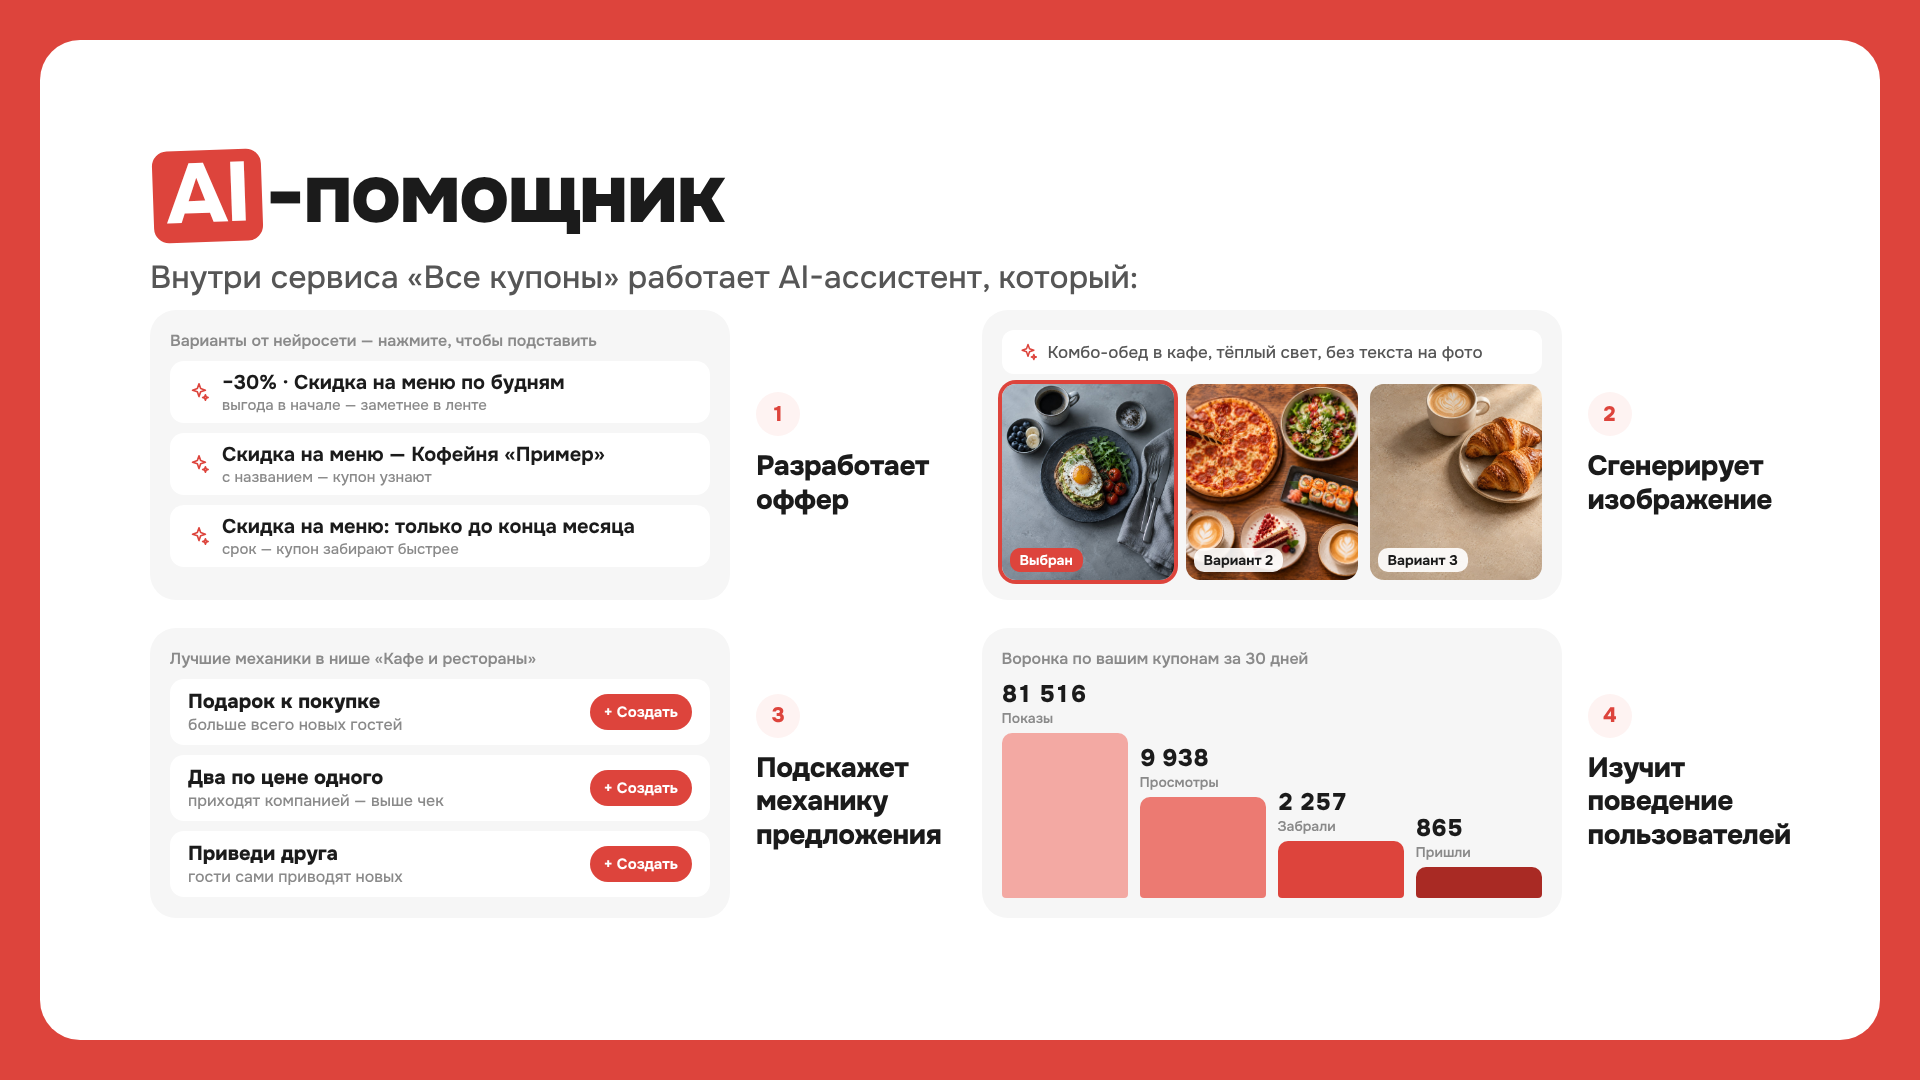
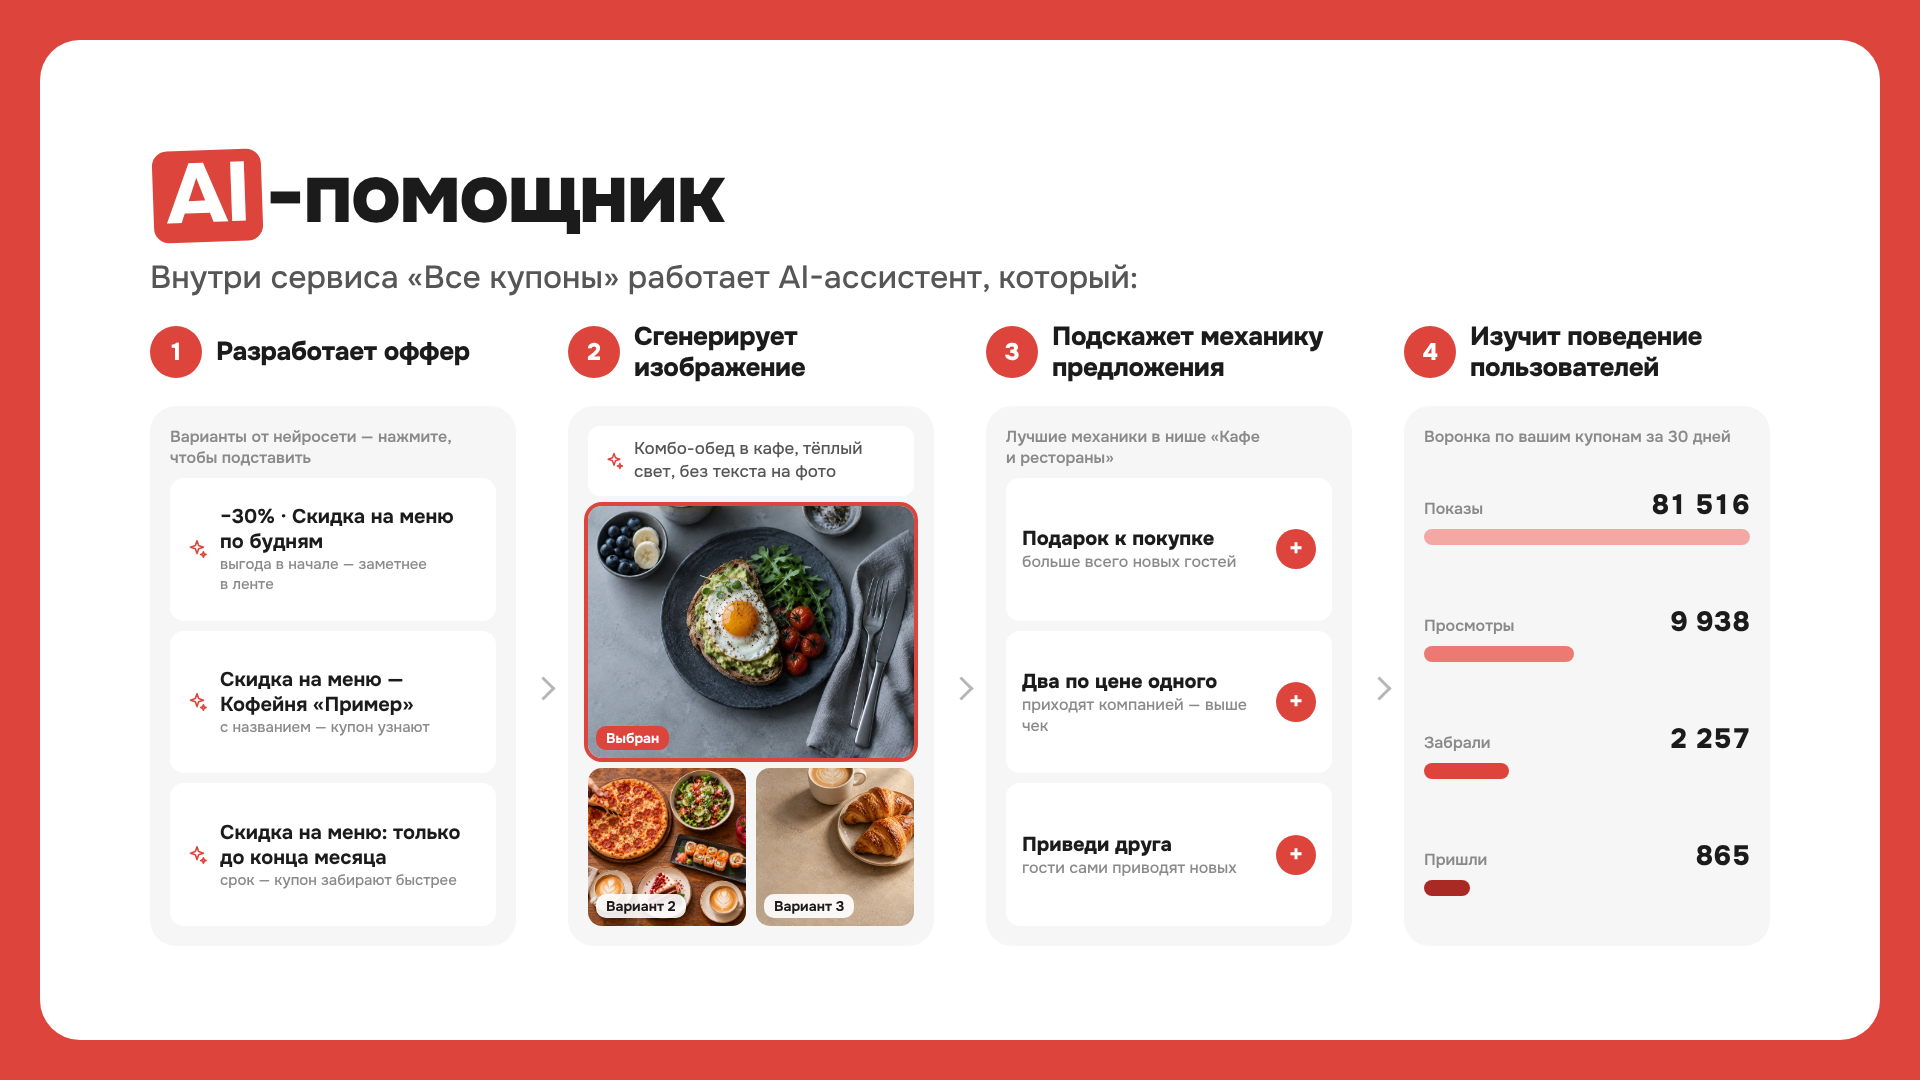
Презентация: AI-помощник — четыре колонки по порядку, подпись над картинкой, стрелки между
Claude-Session: https://claude.ai/code/session_01HQTTQEBkqu3b2tPP56NRpL

diff --git a/social-kit/deck.html b/social-kit/deck.html
@@ -384,34 +384,39 @@ a{color:inherit;text-decoration:none}
 #s7 .in{width:1500px;top:110px}
 #s7 .h1{margin:0}
 #s7 .sub{margin-top:14px}
-.ai{position:absolute;left:150px;right:150px;top:310px;display:grid;grid-template-columns:1fr 1fr;gap:28px 40px}
-.ai__c{display:flex;align-items:center;gap:26px}
+/* Четыре колонки слева направо: сверху номер и подпись, под ней — что это
+   в кабинете; между колонками стрелки, как на слайде с шагами. */
+.ai{position:absolute;left:150px;right:150px;top:320px;display:grid;grid-template-columns:repeat(4,1fr);gap:0 52px}
+.ai__c{position:relative;display:flex;flex-direction:column;gap:22px}
+.ai__c + .ai__c::before{content:"";position:absolute;left:-33px;top:360px;width:14px;height:14px;border-top:3px solid var(--ink-4);border-right:3px solid var(--ink-4);transform:rotate(45deg)}
 /* Блоки нарисованы разметкой по экранам кабинета (lk/client-design.html):
    так текст читается с проектора. В генерации — настоящие фото из
    библиотеки ленты assets/coupons/. */
-.ai__scr{flex:none;width:580px;height:290px;border-radius:26px;background:var(--surface);padding:20px;display:flex;flex-direction:column;gap:10px}
+.ai__scr{flex:none;width:100%;height:540px;border-radius:26px;background:var(--surface);padding:20px;display:flex;flex-direction:column;gap:10px}
 .ai__k{font-size:16px;font-weight:600;color:var(--ink-3)}
-.ai__v{display:flex;align-items:center;gap:12px;height:62px;padding:0 18px;border-radius:14px;background:#fff;font-size:20px;font-weight:700}
+.ai__v{display:flex;align-items:center;gap:12px;flex:1;padding:12px 16px;border-radius:14px;background:#fff;font-size:20px;font-weight:700}
 .ai__v svg{width:22px;height:22px;color:var(--brand);flex:none}
 .ai__v small{display:block;font-size:15px;font-weight:500;color:var(--ink-3)}
-.ai__p{height:44px;flex:none;display:flex;align-items:center;gap:10px;padding:0 16px;border-radius:12px;background:#fff;font-size:17px;font-weight:500;color:var(--ink-2);white-space:nowrap;overflow:hidden}
+.ai__p{flex:none;display:flex;align-items:center;gap:10px;padding:12px 16px;border-radius:12px;background:#fff;font-size:17px;font-weight:500;line-height:1.35;color:var(--ink-2)}
 .ai__p svg{width:20px;height:20px;color:var(--brand);flex:none}
-.ai__imgs{flex:1;display:flex;gap:12px;min-height:0}
+.ai__imgs{flex:1;display:grid;grid-template-columns:1fr 1fr;grid-template-rows:1.6fr 1fr;gap:10px;min-height:0}
+.ai__imgs i:first-child{grid-column:1 / 3}
 .ai__imgs i{position:relative;flex:1;border-radius:14px;background:center / cover no-repeat}
 .ai__imgs i.is-on{box-shadow:0 0 0 4px var(--brand)}
 .ai__imgs i span{position:absolute;left:8px;bottom:8px;padding:3px 10px;border-radius:10px;background:rgba(255,255,255,.9);font-size:14px;font-weight:700;font-style:normal}
 .ai__imgs i.is-on span{background:var(--brand);color:#fff}
-.ai__m{display:flex;align-items:center;gap:14px;height:66px;padding:0 18px;border-radius:14px;background:#fff}
+.ai__m{display:flex;align-items:center;gap:12px;flex:1;padding:12px 16px;border-radius:14px;background:#fff}
 .ai__m b{font-size:20px;font-weight:800;white-space:nowrap}
 .ai__m span{font-size:16px;font-weight:500;color:var(--ink-3)}
-.ai__m em{margin-left:auto;font-style:normal;white-space:nowrap;height:36px;padding:0 14px;border-radius:18px;background:var(--brand);color:#fff;font-size:15px;font-weight:700;display:grid;place-items:center}
-.ai__f{flex:1;display:flex;align-items:flex-end;gap:12px;min-height:0}
-.ai__f div{flex:1;height:100%;display:flex;flex-direction:column;justify-content:flex-end}
-.ai__f b{font-size:24px;font-weight:800;letter-spacing:-.02em;font-variant-numeric:tabular-nums}
-.ai__f span{font-size:14px;font-weight:600;color:var(--ink-3);margin-bottom:6px}
-.ai__f i{display:block;border-radius:10px 10px 4px 4px}
-.ai__t{display:flex;flex-direction:column;align-items:flex-start;gap:14px;font-size:28px;font-weight:800;line-height:1.2;letter-spacing:-.015em}
-.ai__t b{flex:none;width:44px;height:44px;border-radius:50%;display:grid;place-items:center;background:var(--brand-50);color:var(--brand);font-size:21px}
+.ai__m em{margin-left:auto;flex:none;font-style:normal;width:40px;height:40px;border-radius:50%;background:var(--brand);color:#fff;font-size:26px;font-weight:600;line-height:1;display:grid;place-items:center}
+.ai__f{flex:1;display:flex;flex-direction:column;justify-content:space-around}
+.ai__f div{display:flex;flex-direction:column;gap:6px}
+.ai__f p{margin:0;display:flex;align-items:baseline;justify-content:space-between}
+.ai__f b{font-size:28px;font-weight:800;letter-spacing:-.02em;font-variant-numeric:tabular-nums}
+.ai__f span{font-size:16px;font-weight:600;color:var(--ink-3)}
+.ai__f i{display:block;height:16px;border-radius:8px}
+.ai__t{order:-1;display:flex;flex-direction:row;align-items:center;gap:14px;min-height:64px;font-size:26px;font-weight:800;line-height:1.2;letter-spacing:-.015em}
+.ai__t b{flex:none;width:52px;height:52px;border-radius:50%;display:grid;place-items:center;background:var(--brand);color:#fff;font-size:24px}
 
 /* ==========================================================================
    8. Следующий шаг — схема городов
@@ -648,17 +653,17 @@ a{color:inherit;text-decoration:none}
       </div><div class="ai__t"><b>2</b>Сгенерирует изображение</div></div>
       <div class="ai__c"><div class="ai__scr">
         <div class="ai__k">Лучшие механики в&nbsp;нише «Кафе и&nbsp;рестораны»</div>
-        <div class="ai__m"><div><b>Подарок к&nbsp;покупке</b><br><span>больше всего новых гостей</span></div><em>+ Создать</em></div>
-        <div class="ai__m"><div><b>Два по&nbsp;цене одного</b><br><span>приходят компанией — выше чек</span></div><em>+ Создать</em></div>
-        <div class="ai__m"><div><b>Приведи друга</b><br><span>гости сами приводят новых</span></div><em>+ Создать</em></div>
+        <div class="ai__m"><div><b>Подарок к&nbsp;покупке</b><br><span>больше всего новых гостей</span></div><em>+</em></div>
+        <div class="ai__m"><div><b>Два по&nbsp;цене одного</b><br><span>приходят компанией — выше чек</span></div><em>+</em></div>
+        <div class="ai__m"><div><b>Приведи друга</b><br><span>гости сами приводят новых</span></div><em>+</em></div>
       </div><div class="ai__t"><b>3</b>Подскажет механику предложения</div></div>
       <div class="ai__c"><div class="ai__scr">
         <div class="ai__k">Воронка по&nbsp;вашим купонам за&nbsp;30&nbsp;дней</div>
         <div class="ai__f">
-          <div><b>81&nbsp;516</b><span>Показы</span><i style="height:100%;background:#F3A9A3"></i></div>
-          <div><b>9&nbsp;938</b><span>Просмотры</span><i style="height:46%;background:#EC7A72"></i></div>
-          <div><b>2&nbsp;257</b><span>Забрали</span><i style="height:26%;background:#DD443C"></i></div>
-          <div><b>865</b><span>Пришли</span><i style="height:14%;background:#A92A24"></i></div>
+          <div><p><span>Показы</span><b>81&nbsp;516</b></p><i style="width:100%;background:#F3A9A3"></i></div>
+          <div><p><span>Просмотры</span><b>9&nbsp;938</b></p><i style="width:46%;background:#EC7A72"></i></div>
+          <div><p><span>Забрали</span><b>2&nbsp;257</b></p><i style="width:26%;background:#DD443C"></i></div>
+          <div><p><span>Пришли</span><b>865</b></p><i style="width:14%;background:#A92A24"></i></div>
         </div>
       </div><div class="ai__t"><b>4</b>Изучит поведение пользователей</div></div>
     </div>
